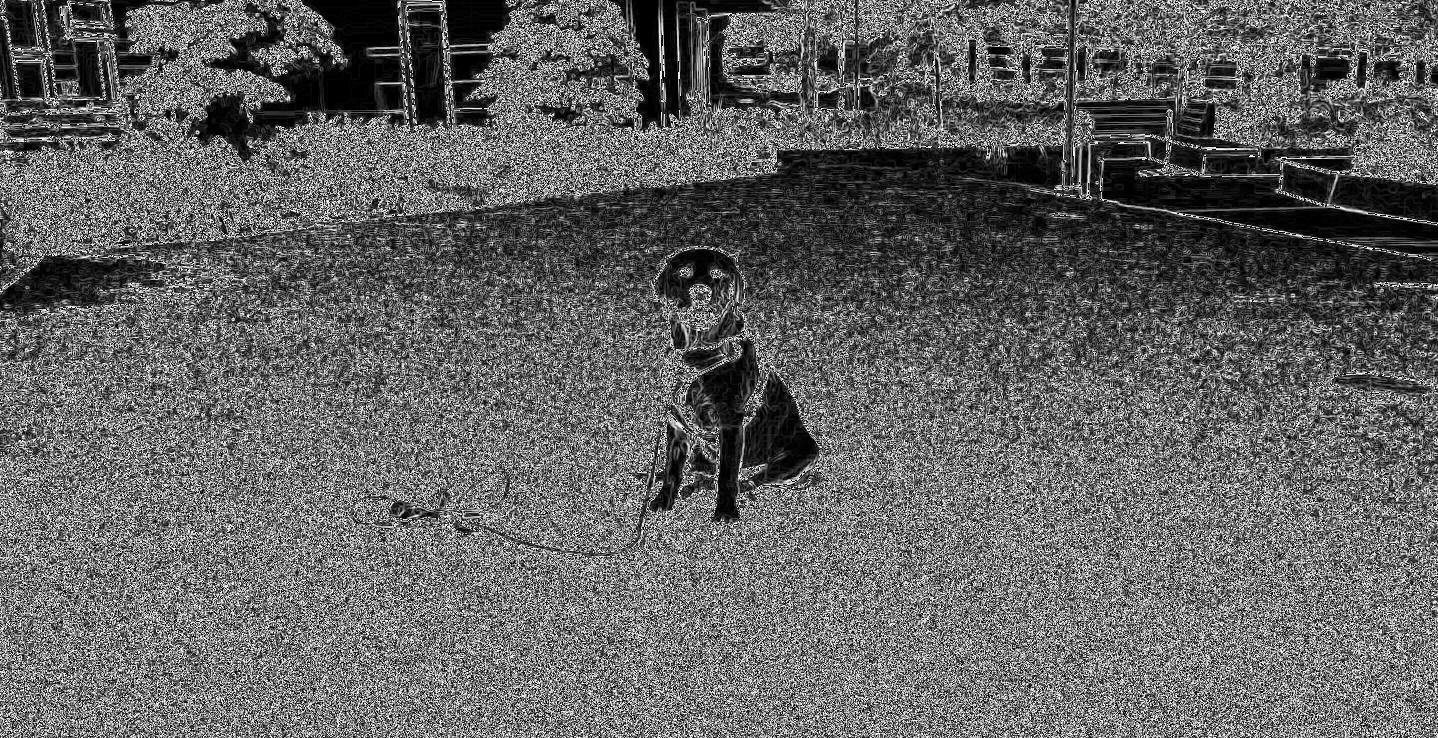
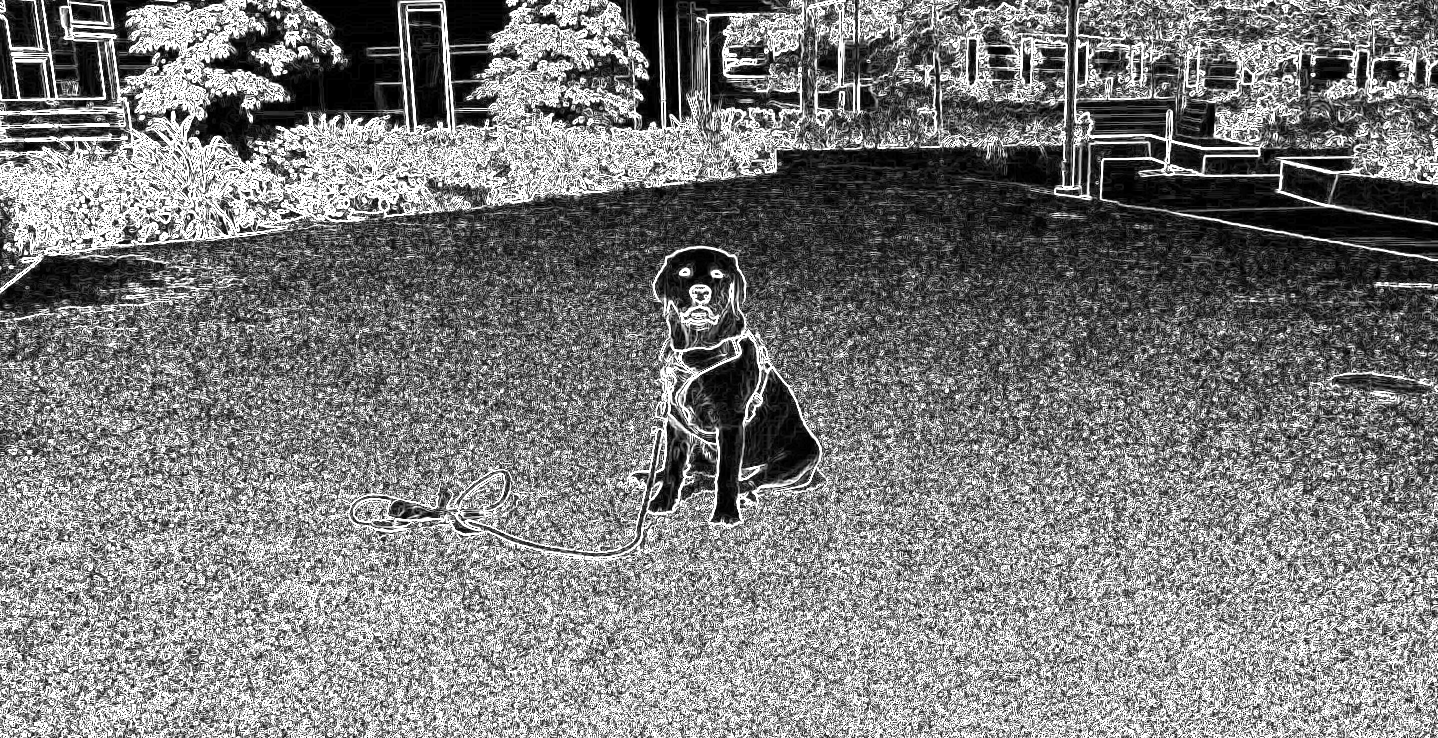
update Sobel for proper balancing and scaling

diff --git a/src/sobel/sobel_mpi.cpp b/src/sobel/sobel_mpi.cpp
@@ -33,8 +33,12 @@ void sobelMPI(GrayImage* image, int rank, int size) {
                 }
             }
 
-            uint8_t magnitude = std::sqrt(sum_x * sum_x + sum_y * sum_y);
-            local_new_image[(y - start_y) * new_width + x] = magnitude;
+            sum_x = std::abs(sum_x);
+            sum_y = std::abs(sum_y);
+
+            int fill_idx = (y - start_y) * new_width + x;
+            int magnitude = std::sqrt(sum_x * sum_x + sum_y * sum_y);
+            local_new_image[fill_idx] = (uint8_t)std::min(255, magnitude);
         }
     }
 

diff --git a/src/main.cpp b/src/main.cpp
@@ -1,7 +1,16 @@
 #include <cstdlib>
+#include <iostream>
 #include <chrono>
 
+void executeCMD(const char* cmd) {
+    int result = system(cmd);
+    if (result != 0) {
+        std::cerr << "Execute [" << cmd 
+            << "] failed with error code " << result << std::endl;
+    }
+}
+
 int main() {
-    // int result = system("./sobel_seq");
-    int result = system("mpirun -np 4 ./sobel_mpi");
+    executeCMD("./sobel_seq");
+    executeCMD("mpirun -np 8 ./sobel_mpi");
 }

diff --git a/src/sobel/sobel_seq.cpp b/src/sobel/sobel_seq.cpp
@@ -20,8 +20,11 @@ void sobelSequential(GrayImage* image) {
                 }
             }
 
-            uint8_t magnitude = std::sqrt(sum_x * sum_x + sum_y * sum_y);
-            new_image[y][x] = magnitude;
+            sum_x = std::abs(sum_x);
+            sum_y = std::abs(sum_y);
+
+            int magnitude = std::sqrt(sum_x * sum_x + sum_y * sum_y);
+            new_image[y][x] = (uint8_t)std::min(255, magnitude);
         }
     }
 
